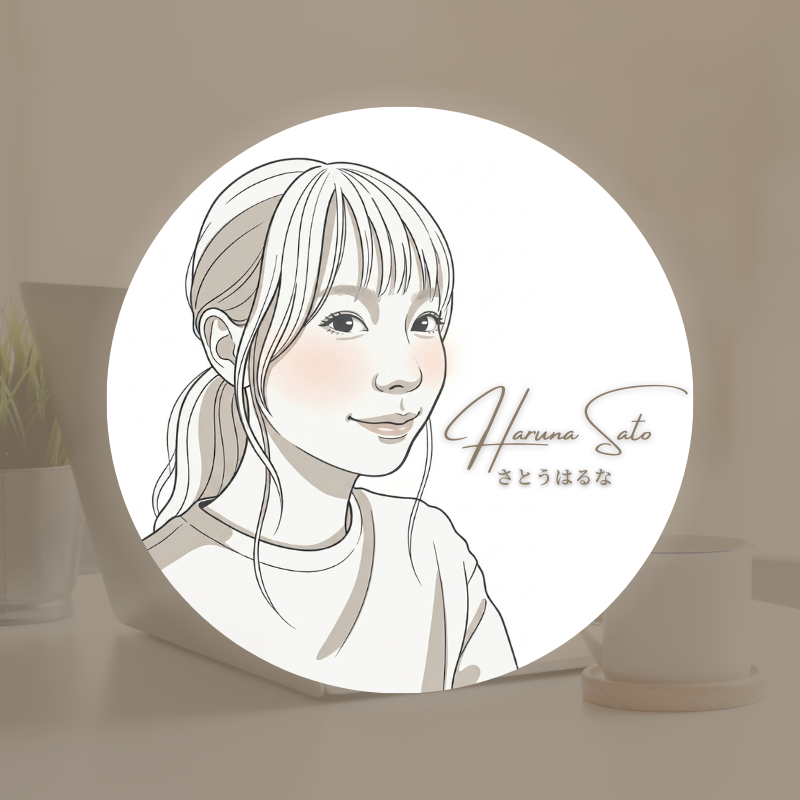
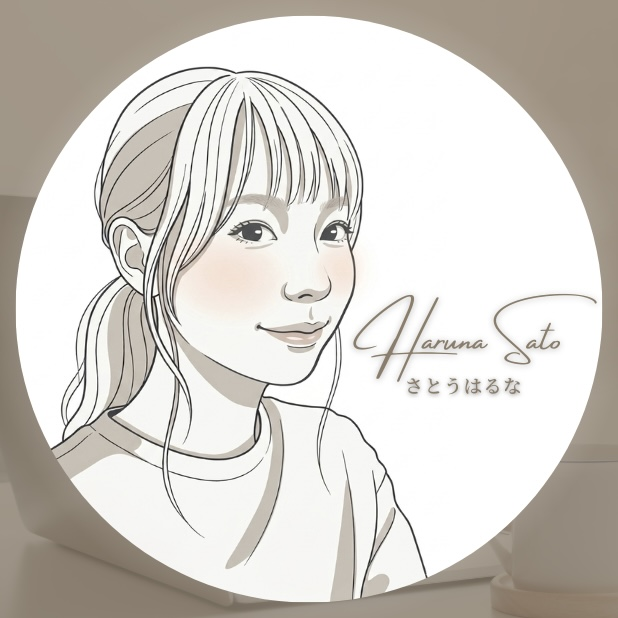
iconの微調整

diff --git a/css/styles.css b/css/styles.css
@@ -254,7 +254,7 @@ body {
 .profile-icon {
   width: 160px;
   height: 160px;
-  border-radius: 10%;
+  border-radius: 50%;
   object-fit: cover;
   flex-shrink: 0;
   border: none;
